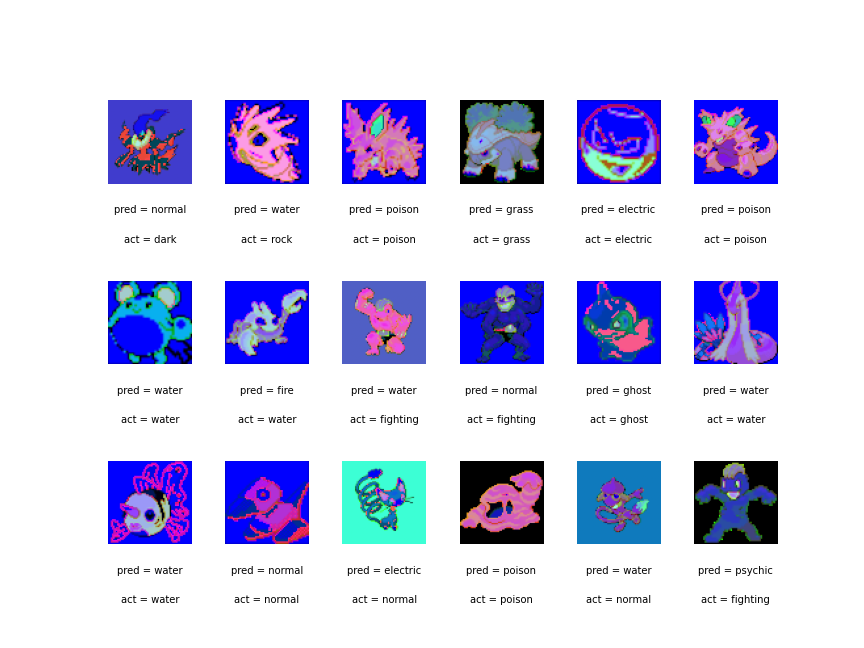
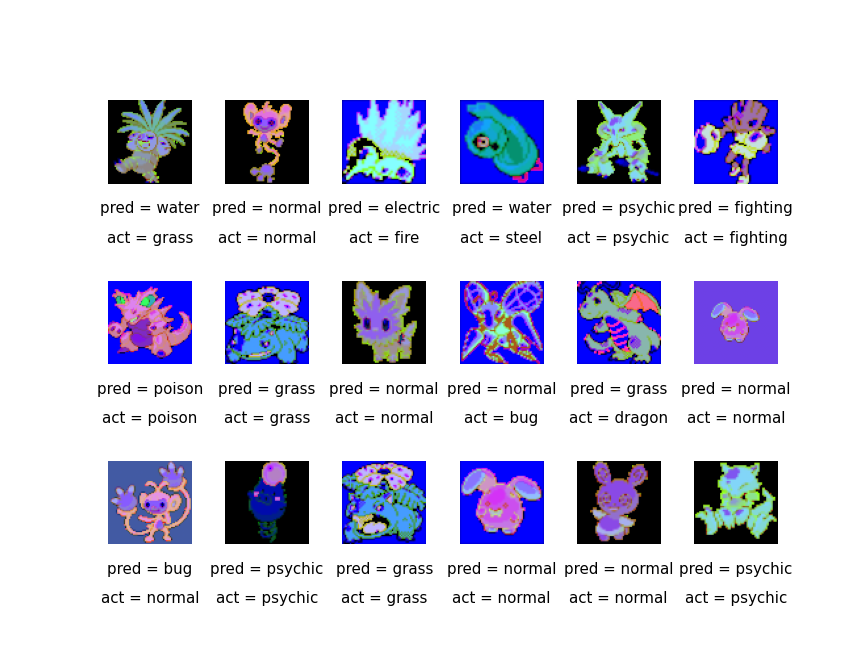
third

Changed region(s): [[0.125, 0.1543, 0.9375, 0.4012], [0.125, 0.7099, 0.9062, 0.9568], [0.0938, 0.4321, 0.9062, 0.679]]

diff --git a/train.py b/train.py
@@ -148,9 +148,9 @@ plt.legend(['train', 'test'], loc='upper left')
 plt.savefig(r"accracy_loss/data_aug.png")
 
 plt.show()
+#%%
 
-
-model.load_weights(filepath)
+model.load_weights("model/original.h5")
 
 
 # visualize the results
@@ -173,8 +173,8 @@ for i in range(10):
         img = x_test[idx]
         ax = plt.subplot(3, 6, j+1)
         ax.axis('off')
-        ax.text(0.5, -0.35, 'pred = ' + str(preds_single[idx]), fontsize=10, ha='center', transform=ax.transAxes) 
-        ax.text(0.5, -0.7, 'act = ' + str(actual_single[idx]), fontsize=10, ha='center', transform=ax.transAxes)
+        ax.text(0.5, -0.35, 'pred = ' + str(preds_single[idx]), fontsize=15, ha='center', transform=ax.transAxes) 
+        ax.text(0.5, -0.7, 'act = ' + str(actual_single[idx]), fontsize=15, ha='center', transform=ax.transAxes)
         ax.imshow(img)
         
     #plt.savefig("result/pictur_{}".format(i+1))
